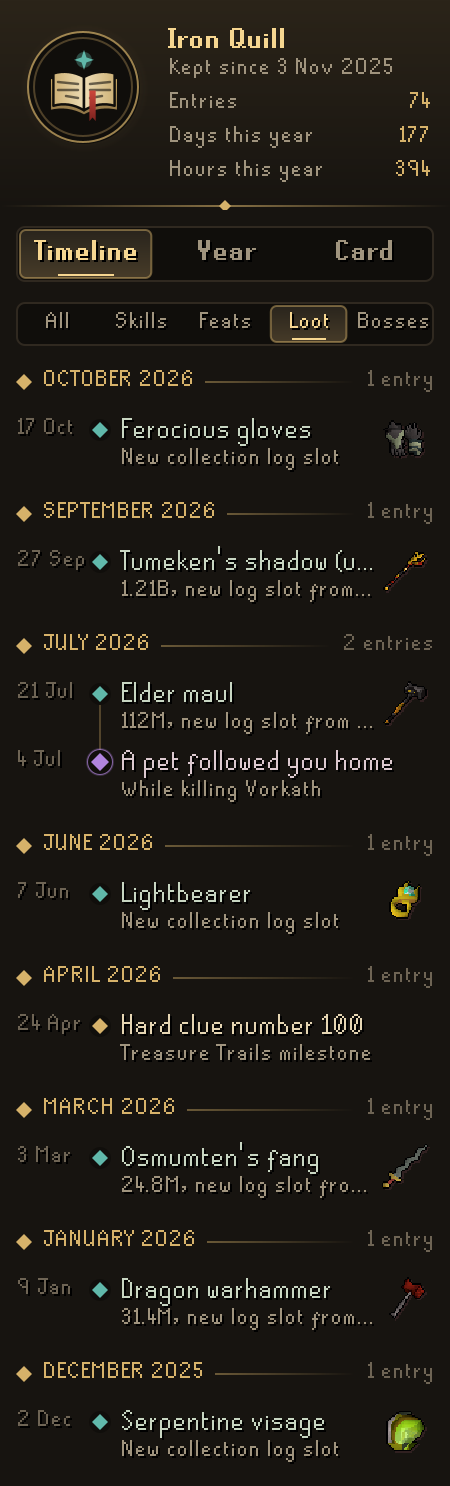
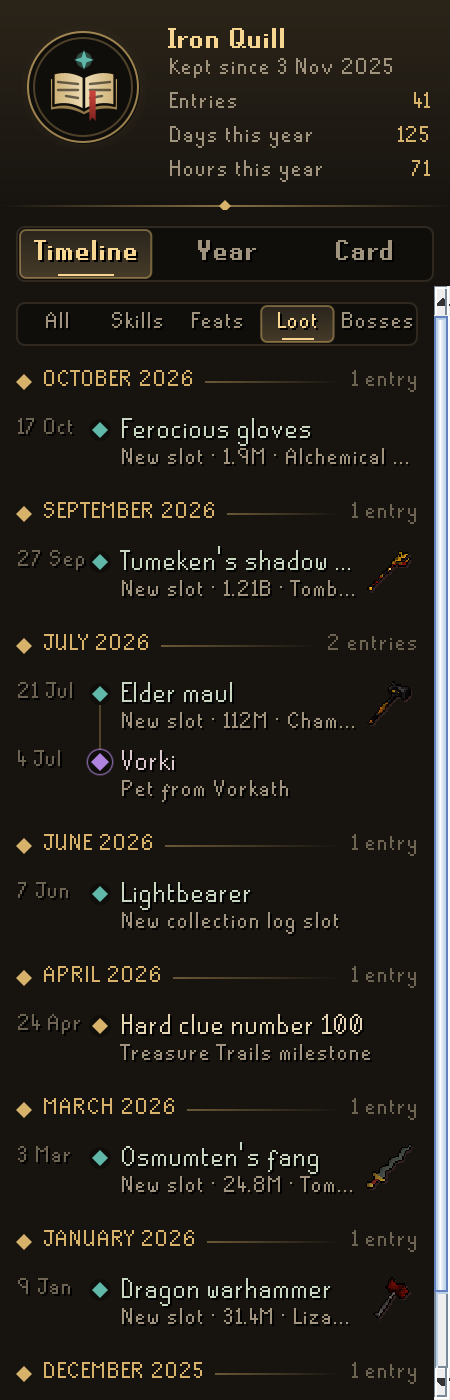
Show months before the annals began as never kept; refresh screenshots
- The first year's month strip, in the panel and on the card, draws the
  months before the annals began as an empty dashed outline instead of a
  dark month that reads as unplayed.
- The card's tallies keep their size and sit centred, so a year with one
  quest no longer stretches a single medallion across the page.
- Screenshots refreshed from the current build.

diff --git a/src/main/java/com/codex/annals/ui/MonthStrip.java b/src/main/java/com/codex/annals/ui/MonthStrip.java
@@ -1,11 +1,13 @@
 package com.codex.annals.ui;
 
+import java.awt.BasicStroke;
 import java.awt.Color;
 import java.awt.Dimension;
 import java.awt.FontMetrics;
 import java.awt.GradientPaint;
 import java.awt.Graphics;
 import java.awt.Graphics2D;
+import java.awt.Stroke;
 import java.awt.event.MouseAdapter;
 import java.awt.event.MouseEvent;
 import java.awt.geom.RoundRectangle2D;
@@ -23,16 +25,18 @@ class MonthStrip extends JComponent
 	private final int[] days;
 	private final int[] entries;
 	private final int current;
+	private final int first;
 	private int hover = -1;
 
 	/**
 	 * @param current the month still being lived, 0 for January, or -1 for a finished year
 	 */
-	MonthStrip(int[] days, int[] entries, int current)
+	MonthStrip(int[] days, int[] entries, int current, int first)
 	{
 		this.days = days;
 		this.entries = entries;
 		this.current = current;
+		this.first = first;
 		setOpaque(false);
 		setPreferredSize(new Dimension(10, HEIGHT));
 		setToolTipText("");
@@ -64,6 +68,10 @@ class MonthStrip extends JComponent
 	public String getToolTipText(MouseEvent e)
 	{
 		int m = Math.min(11, Math.max(0, e.getX() * 12 / Math.max(1, getWidth())));
+		if (m < first)
+		{
+			return Format.monthName(m) + ": before the annals began";
+		}
 		return Format.monthName(m) + ": " + Format.plural(days[m], "day", "days") + " played, "
 			+ Format.plural(entries[m], "entry", "entries");
 	}
@@ -73,12 +81,16 @@ class MonthStrip extends JComponent
 	{
 		Graphics2D g = (Graphics2D) graphics.create();
 		Theme.smooth(g);
-		paint(g, days, current, hover, 0, 0, getWidth(), getHeight());
+		paint(g, days, current, hover, first, 0, 0, getWidth(), getHeight());
 		g.dispose();
 	}
 
-	/** Draws the strip in a box; the card uses the same drawing. */
-	static void paint(Graphics2D g, int[] days, int current, int hover, int x, int y, int w, int h)
+	/**
+	 * Draws the strip in a box; the card uses the same drawing.
+	 *
+	 * @param first the first month kept; the months before it are drawn as never kept, not as unplayed
+	 */
+	static void paint(Graphics2D g, int[] days, int current, int hover, int first, int x, int y, int w, int h)
 	{
 		int max = 1;
 		for (int d : days)
@@ -101,6 +113,19 @@ class MonthStrip extends JComponent
 			float cx = x + m * (cell + gap);
 			double t = days[m] / (double) max;
 			RoundRectangle2D tile = new RoundRectangle2D.Float(cx, y, cell, ch, 5, 5);
+			String letter = LETTERS.substring(m, m + 1);
+			if (m < first)
+			{
+				// Before the annals: an empty, dashed outline rather than a dark month that looks unplayed.
+				Stroke old = g.getStroke();
+				g.setStroke(new BasicStroke(1f, BasicStroke.CAP_BUTT, BasicStroke.JOIN_ROUND, 1f, new float[]{2f, 2f}, 0f));
+				g.setColor(Theme.alpha(Theme.STROKE, m == hover ? 220 : 120));
+				g.draw(tile);
+				g.setStroke(old);
+				g.setColor(Theme.alpha(Theme.TEXT_FAINT, 120));
+				g.drawString(letter, Math.round(cx + (cell - fm.stringWidth(letter)) / 2), y + h - 1);
+				continue;
+			}
 			Color top;
 			Color bottom;
 			if (days[m] == 0)
@@ -124,7 +149,6 @@ class MonthStrip extends JComponent
 				g.setColor(Theme.alpha(Color.WHITE, 40));
 				g.drawLine(Math.round(cx + 3), y + 1, Math.round(cx + cell - 3), y + 1);
 			}
-			String letter = LETTERS.substring(m, m + 1);
 			g.setColor(m == best ? Theme.GOLD : m == hover ? Theme.TEXT : Theme.TEXT_FAINT);
 			g.drawString(letter, Math.round(cx + (cell - fm.stringWidth(letter)) / 2), y + h - 1);
 		}

diff --git a/src/main/java/com/codex/annals/ui/YearCard.java b/src/main/java/com/codex/annals/ui/YearCard.java
@@ -158,7 +158,7 @@ public final class YearCard
 
 		header(g, "Months", r.busiestMonth() >= 0 ? "busiest " + Format.monthName(r.busiestMonth()) : null, x, y, w);
 		y += 24;
-		MonthStrip.paint(g, r.getMonthDays(), -1, -1, x, y, w, MonthStrip.HEIGHT);
+		MonthStrip.paint(g, r.getMonthDays(), -1, -1, r.getFirstMonth(), x, y, w, MonthStrip.HEIGHT);
 		y += MonthStrip.HEIGHT + 10;
 
 		List<Recap.SkillYear> skillLines = r.getSkills();
@@ -268,7 +268,9 @@ public final class YearCard
 		String[][] items = kept.toArray(new String[0][]);
 		Color[] colors = keptColors.toArray(new Color[0]);
 		int gap = 4;
-		float cell = (w - gap * (items.length - 1)) / (float) items.length;
+		// Medallions keep the size five would have, centred, so one alone does not stretch across the page.
+		float cell = (w - gap * 4) / 5f;
+		x += Math.round((w - (cell * items.length + gap * (items.length - 1))) / 2);
 		int h = 34;
 		g.setFont(Theme.small());
 		FontMetrics small = g.getFontMetrics();

diff --git a/src/main/java/com/codex/annals/core/Recap.java b/src/main/java/com/codex/annals/core/Recap.java
@@ -107,12 +107,15 @@ public final class Recap
 	private final int clues;
 	private final String headline;
 	private final long begunAt;
+	private final int firstMonth;
 
 	private Recap(Annals annals, Year y, ZoneId zone, int highlightCount)
 	{
 		year = y.year;
 		player = annals.getPlayer();
 		begunAt = annals.getBegunAt();
+		LocalDate begun = Instant.ofEpochMilli(begunAt).atZone(zone).toLocalDate();
+		firstMonth = begunAt > 0 && begun.getYear() == year ? begun.getMonthValue() - 1 : 0;
 		playedMs = y.playedMs;
 		daysPlayed = y.days.size();
 		longestStreak = streak(y.days);
@@ -290,6 +293,12 @@ public final class Recap
 	public long getBegunAt()
 	{
 		return begunAt;
+	}
+
+	/** The first month the annals kept in this year, 0 for January; the months before it were never kept. */
+	public int getFirstMonth()
+	{
+		return firstMonth;
 	}
 
 	public long getPlayedMs()

diff --git a/src/main/java/com/codex/annals/ui/YearView.java b/src/main/java/com/codex/annals/ui/YearView.java
@@ -62,7 +62,7 @@ final class YearView
 
 		int busiest = r.busiestMonth();
 		stack.add(new SectionHeader("Months", busiest >= 0 ? "busiest " + Format.monthName(busiest) : null));
-		stack.add(new MonthStrip(r.getMonthDays(), r.getMonthEntries(), currentMonth));
+		stack.add(new MonthStrip(r.getMonthDays(), r.getMonthEntries(), currentMonth, r.getFirstMonth()));
 
 		List<Recap.SkillYear> skills = r.getSkills();
 		if (!skills.isEmpty())

diff --git a/src/test/java/com/codex/annals/core/RecapTest.java b/src/test/java/com/codex/annals/core/RecapTest.java
@@ -24,6 +24,8 @@ public class RecapTest
 		assertEquals(4, r.getDaysPlayed());
 		assertEquals(3, r.getLongestStreak());
 		assertEquals(2, r.busiestMonth());
+		// The annals began in March, so January and February were never kept.
+		assertEquals(2, r.getFirstMonth());
 		assertEquals(1, r.getLevelsGained());
 		assertEquals(1_100_000L, r.getXpGained());
 		assertEquals("Slayer", r.getSkills().get(0).getSkill());
